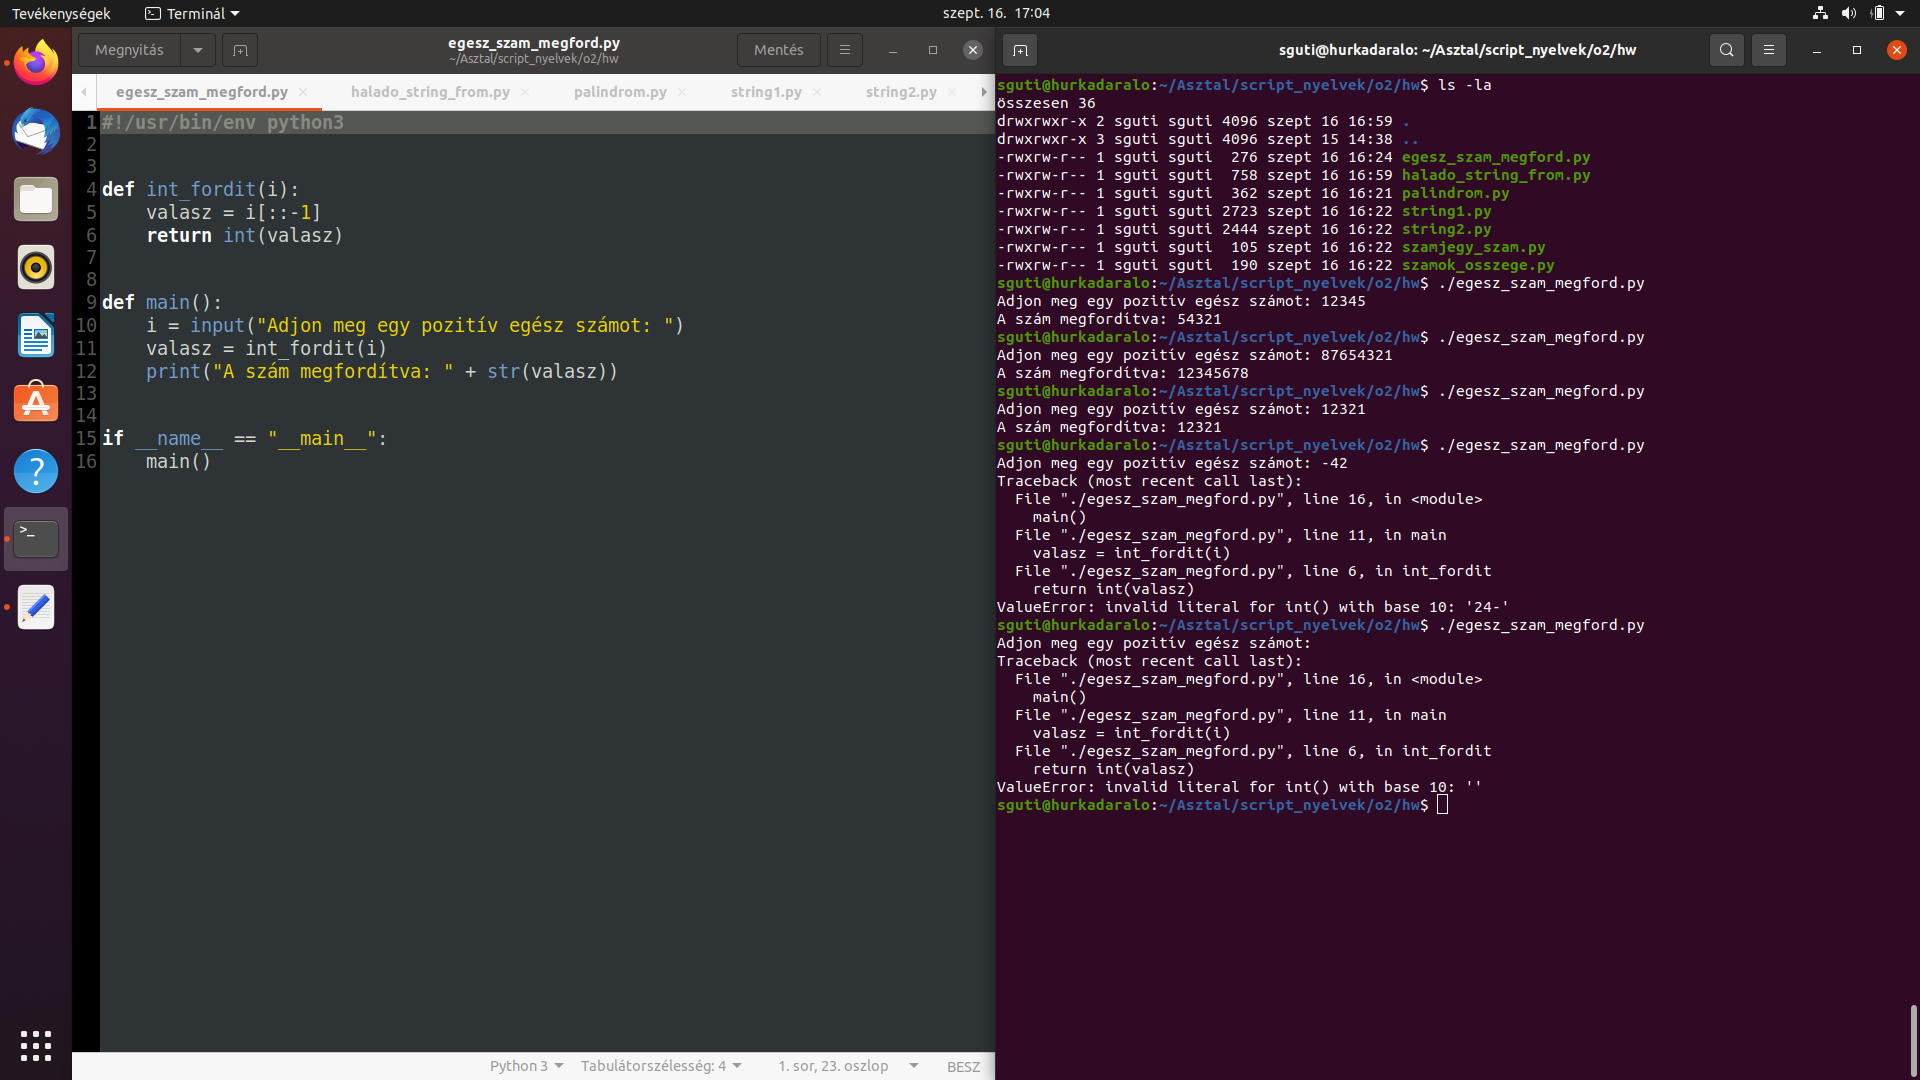
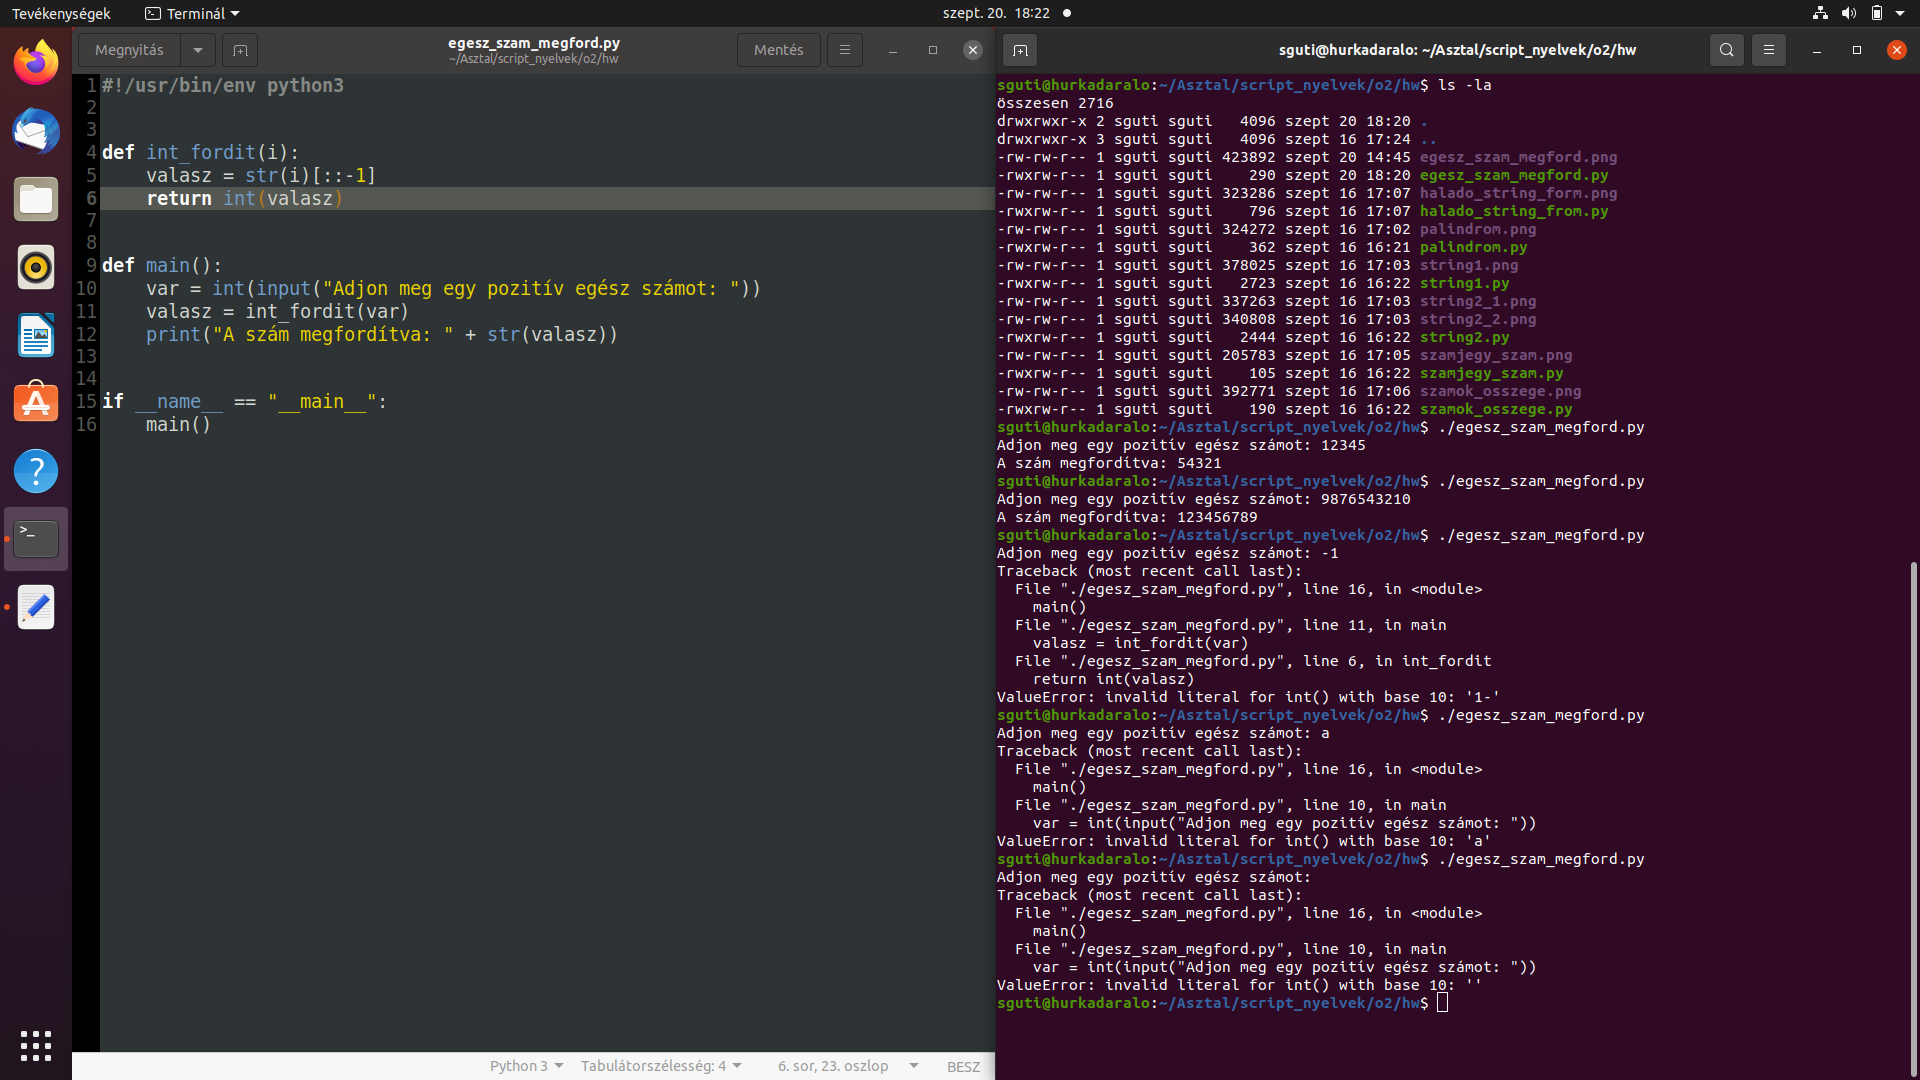
fixed and sent

diff --git a/o2/hw/egesz_szam_megford.py b/o2/hw/egesz_szam_megford.py
@@ -2,13 +2,13 @@
 
 
 def int_fordit(i):
-    valasz = i[::-1]
+    valasz = str(i)[::-1]
     return int(valasz)
 
 
 def main():
-    i = input("Adjon meg egy pozitív egész számot: ")
-    valasz = int_fordit(i)
+    var = int(input("Adjon meg egy pozitív egész számot: "))
+    valasz = int_fordit(var)
     print("A szám megfordítva: " + str(valasz))
 
 
